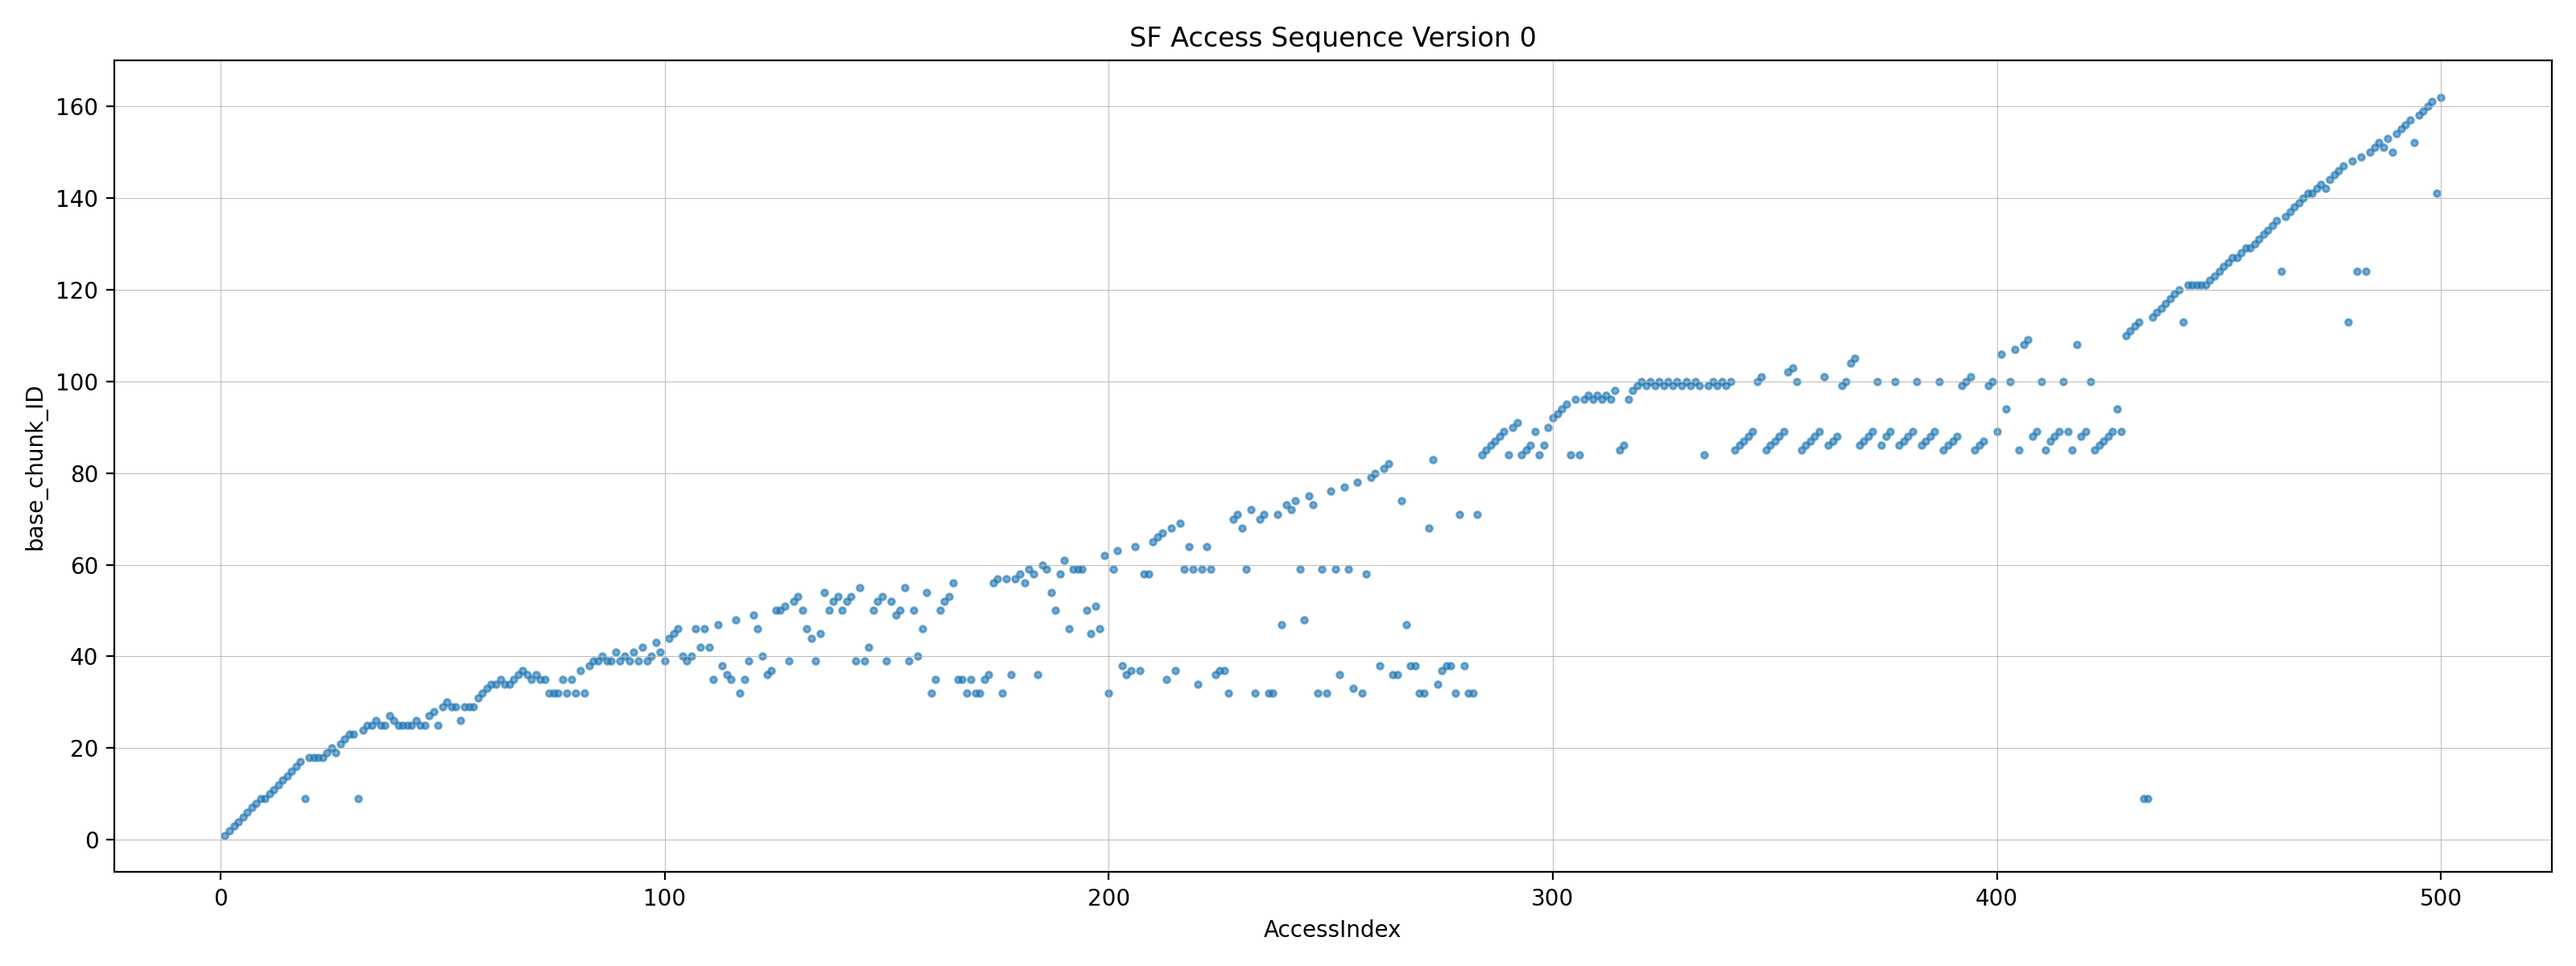
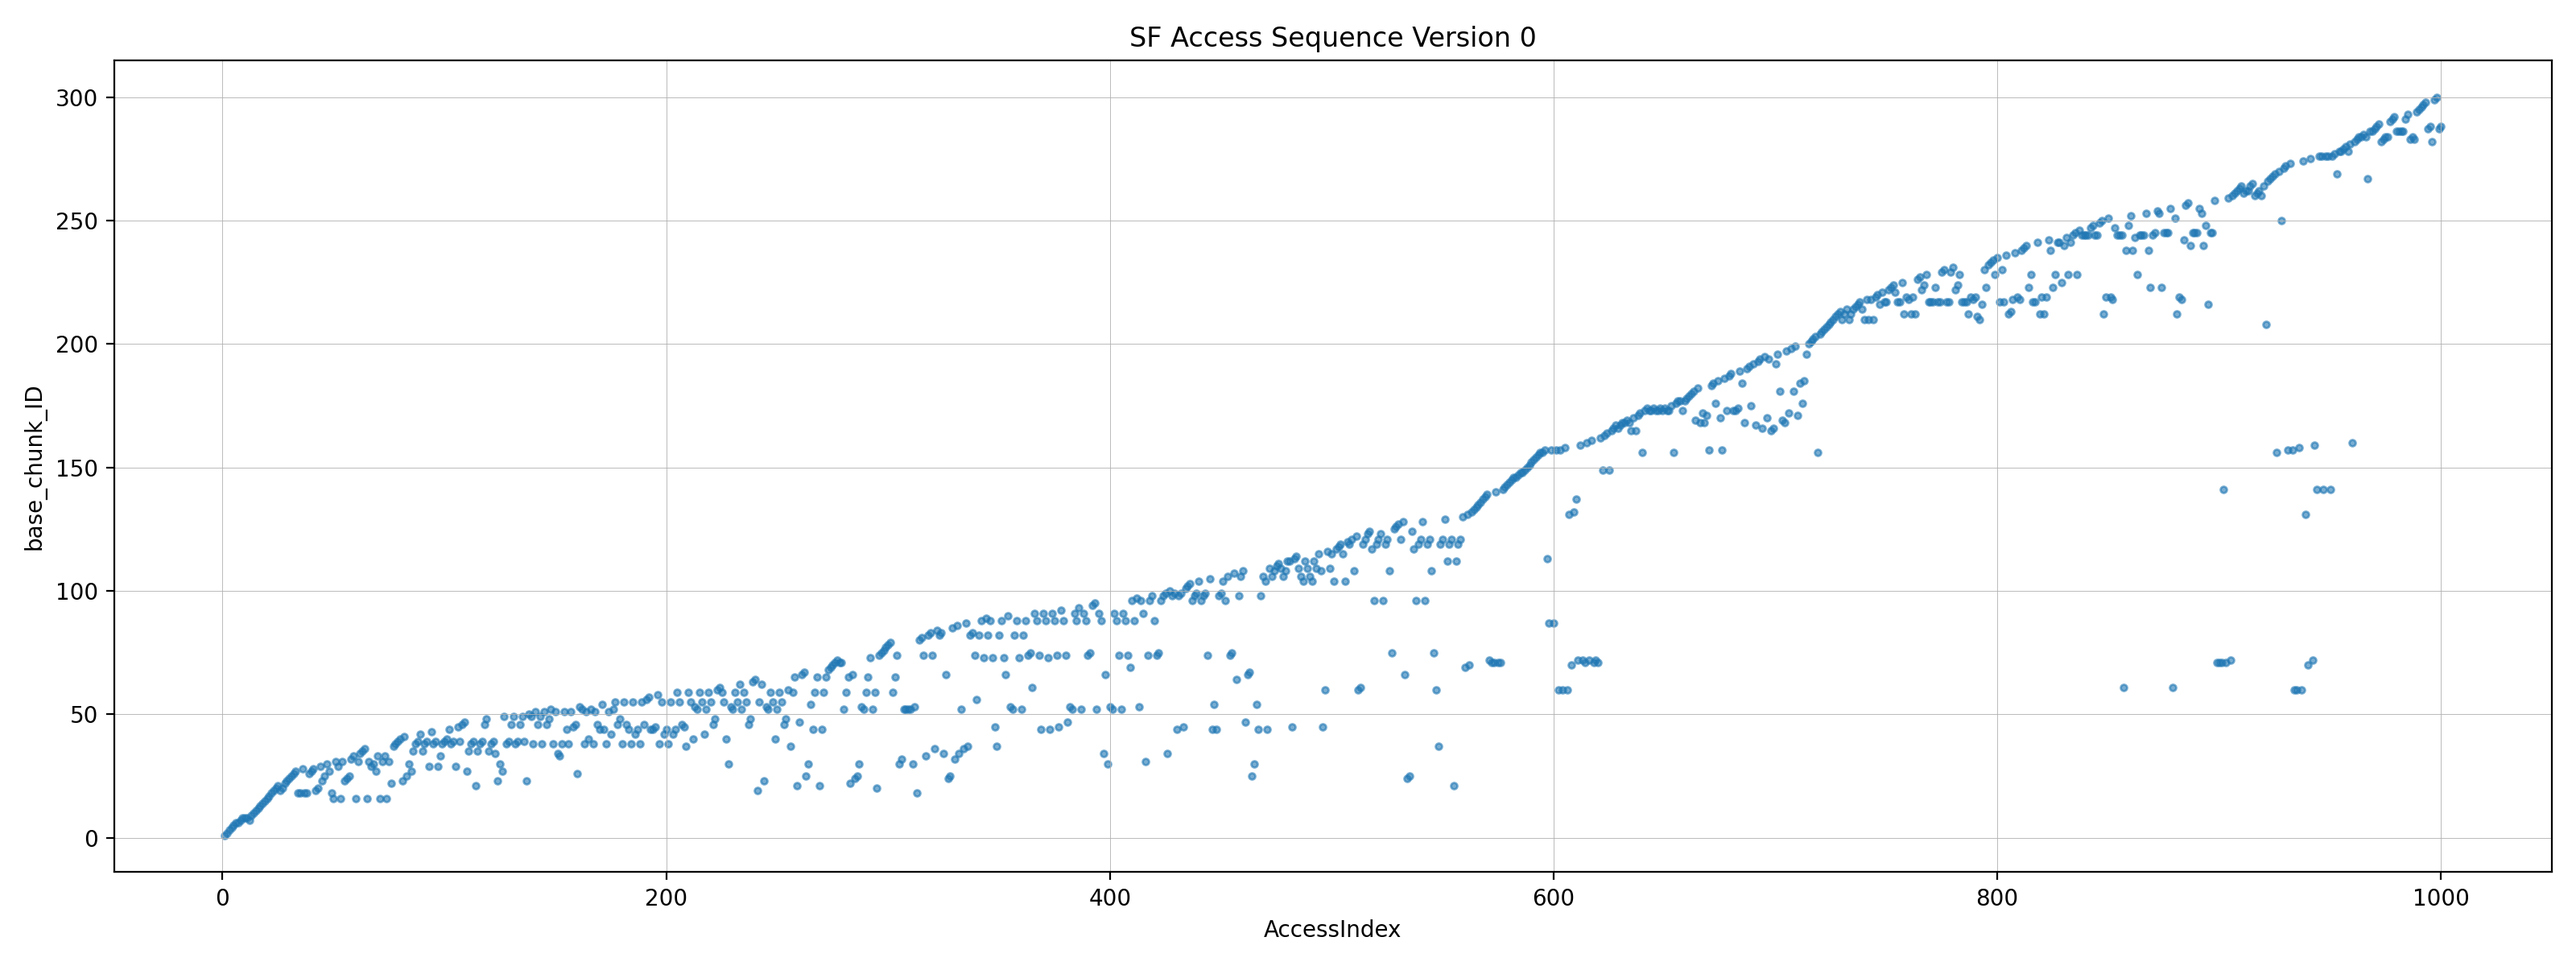
keep x value <= 1000

diff --git a/src/method/TreeCache.cc b/src/method/TreeCache.cc
@@ -49,13 +49,14 @@ void TreeCache::ProcessTrace()
                 std::string filename = folder + "/sf_access_seq_v" + std::to_string(ads_Version) + ".csv";
                 std::ofstream outFile(filename);
                 outFile << "AccessIndex,base_chunk_ID\n";
-                for(const auto& p : id_access_seq){
-                    outFile << p.first << "," << p.second << "\n";
+                int write_count = std::min((int)id_access_seq.size(), 1000);
+                for(int i = 0; i < write_count; ++i){
+                    outFile << id_access_seq[i].first << "," << id_access_seq[i].second << "\n";
                 }
                 outFile.close();
 
-                id_access_seq.clear();
-                access_counter = 0;
+                //id_access_seq.clear();
+                //access_counter = 0;
             }
 
             cacheHitCount = 0;
@@ -112,10 +113,12 @@ void TreeCache::ProcessTrace()
                 if (basechunkid != -1)
                 // unique chunk & delta chunk
                 {
-                    access_counter++;
-                    if(base_id_map.count(basechunkid) == 0)
-                        base_id_map[basechunkid] = base_id_counter++;
-                    id_access_seq.emplace_back(access_counter, base_id_map[basechunkid]);
+                    if(access_counter < 1000){
+                        access_counter++;
+                        if(base_id_map.count(basechunkid) == 0)
+                            base_id_map[basechunkid] = base_id_counter++;
+                        id_access_seq.emplace_back(access_counter, base_id_map[basechunkid]);
+                    }
 
                     auto basechunkInfo = dataWrite_->Get_Chunk_MetaInfo(basechunkid);
                     auto RestoreBasechunk = CutGreedy(basechunkid, tmpChunk, superfeature);
